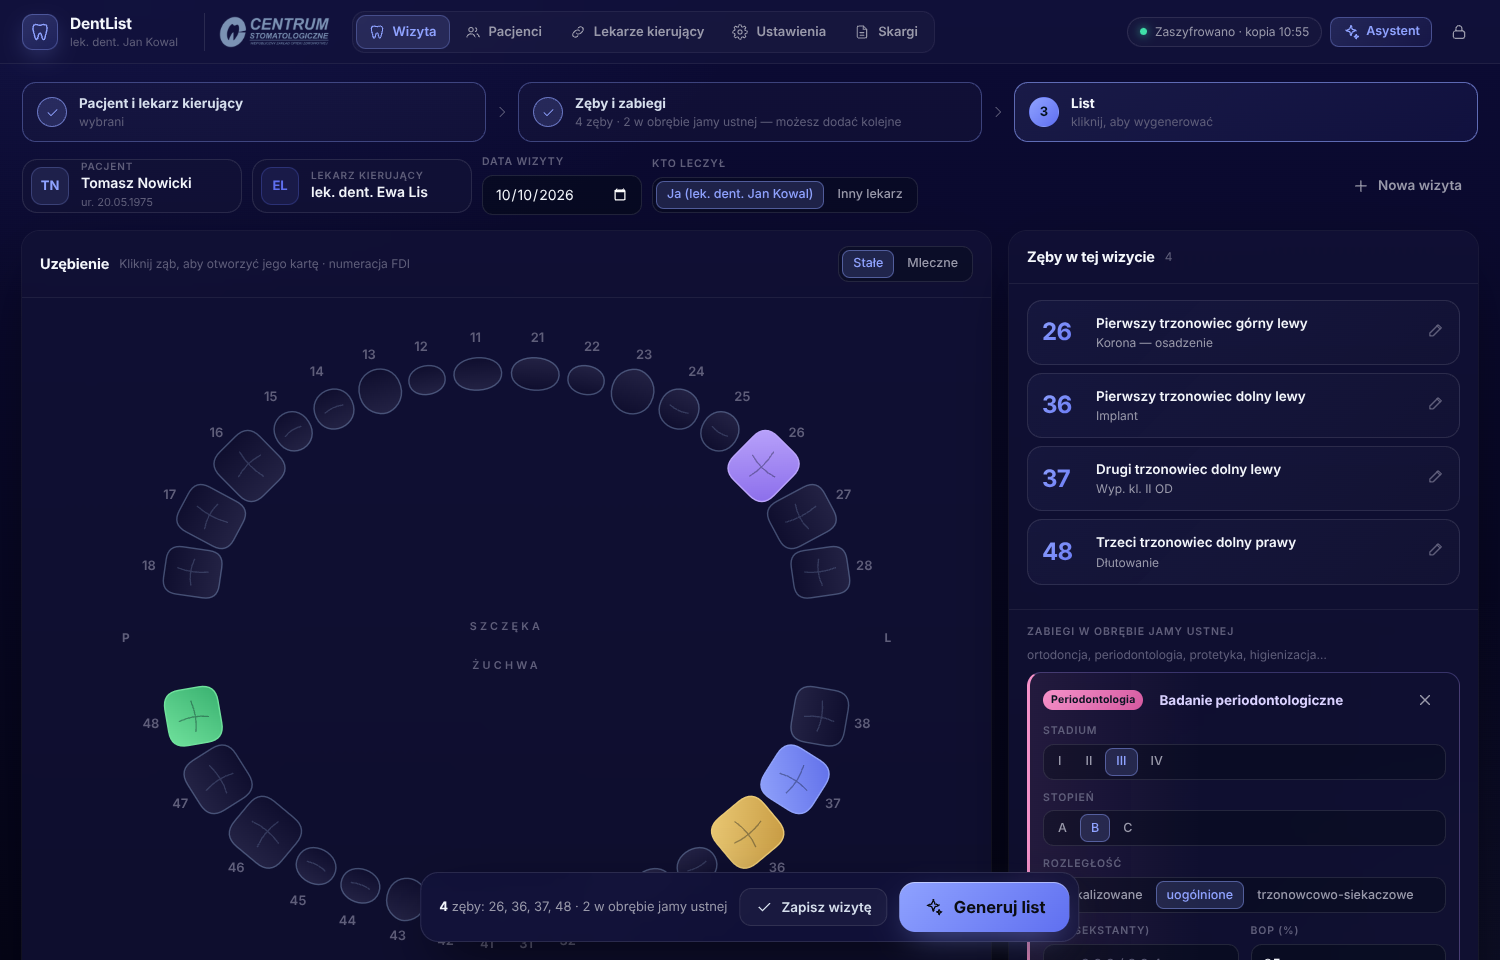
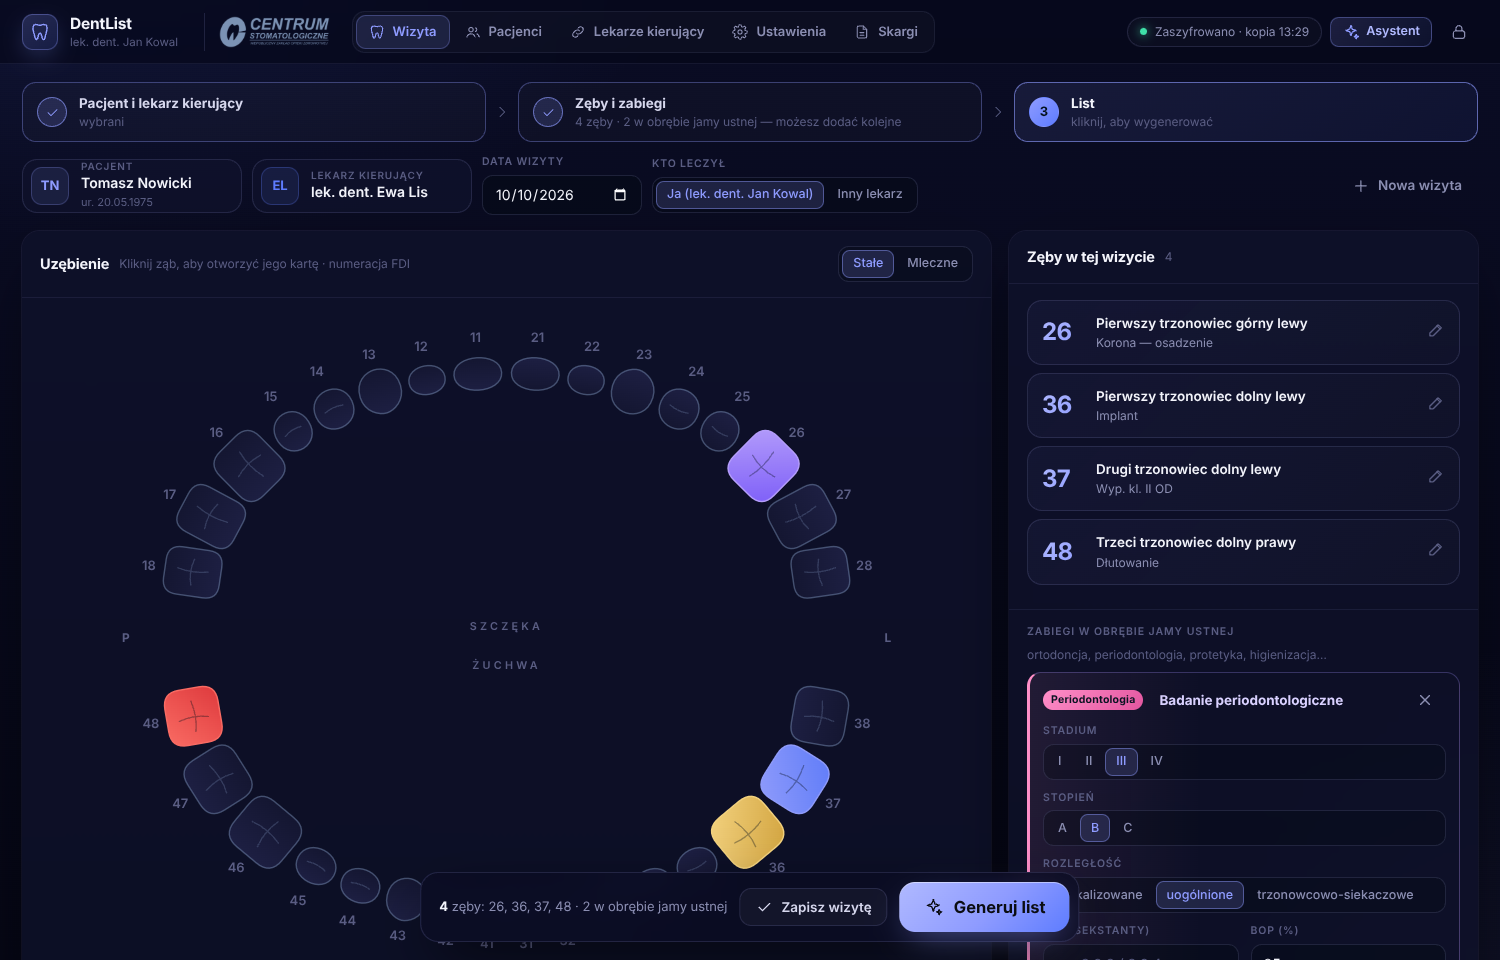
DentList 1.0.6: original endodontics look restored; every specialty built on the navy recipe
- endodontics identical to EndoList (background glow geometry, tooth card without extra glows)
- other specialties: the navy's exact saturation/lightness/alpha table in their own hue,
  Apple-style accents; surgery and maxillofacial surgery in reds
- tooth card keeps the doctor's colours instead of the tooth's work specialty

Claude-Session: https://claude.ai/code/session_01N2R7jD5mcfB683ZhhSfV7y

Changed region(s): [[0.0, 0.0, 1.0, 0.0625], [0.5827, 0.9062, 0.6747, 0.9688], [0.092, 0.7188, 0.1533, 0.7812]]

diff --git a/dentlist/public/css/app.css b/dentlist/public/css/app.css
@@ -25,8 +25,8 @@ svg.i { width: 18px; height: 18px; fill: none; stroke: currentColor; stroke-widt
 ::-webkit-scrollbar-thumb { background: rgba(148, 172, 214, 0.15); border-radius: 10px; border: 3px solid transparent; background-clip: padding-box; }
 :focus-visible { outline: 2px solid var(--accent); outline-offset: 2px; }
 .bg-glow { position: fixed; inset: 0; pointer-events: none; z-index: 0;
-  /* the whole screen takes the home specialty's subdued gradient (endodontics keeps the original EndoList levels) */
-  background: radial-gradient(1100px 680px at 8% -12%, rgba(var(--acc2-rgb), var(--glow1, 0.11)), transparent 62%), radial-gradient(1000px 760px at 105% 110%, rgba(var(--acc-rgb), var(--glow2, 0.08)), transparent 62%), linear-gradient(160deg, rgba(var(--acc2-rgb), var(--tint, 0)), transparent 55%), linear-gradient(180deg, var(--bg-2), var(--bg)); }
+  /* the original EndoList gradient; other specialties use the same recipe in their own hue (applyTheme) */
+  background: radial-gradient(1000px 600px at 8% -12%, rgba(var(--acc2-rgb), 0.11), transparent 60%), radial-gradient(900px 700px at 105% 110%, rgba(var(--acc-rgb), 0.08), transparent 60%), linear-gradient(180deg, var(--bg-2), var(--bg)); }
 
 /* ---------------------------------------------------------- buttons */
 .btn { display: inline-flex; align-items: center; justify-content: center; gap: 8px; height: 38px; padding: 0 15px; border-radius: 12px; border: 1px solid var(--line-2);
@@ -96,7 +96,7 @@ input[type=date] { color-scheme: dark; }
 /* ---------------------------------------------------------- shell */
 .app { position: relative; z-index: 1; }
 .topbar { position: sticky; top: 0; z-index: 20; height: var(--top); display: flex; align-items: center; gap: 18px; padding: 0 22px;
-  border-bottom: 1px solid var(--line); background: rgba(5, 10, 20, 0.66); backdrop-filter: blur(18px) saturate(1.3); -webkit-backdrop-filter: blur(18px) saturate(1.3); }
+  border-bottom: 1px solid var(--line); background: var(--topbar, rgba(5, 10, 20, 0.66)); backdrop-filter: blur(18px) saturate(1.3); -webkit-backdrop-filter: blur(18px) saturate(1.3); }
 .brand { display: flex; align-items: center; gap: 12px; min-width: 0; }
 .mark { width: 36px; height: 36px; border-radius: 11px; display: grid; place-items: center; color: var(--accent); flex: none;
   background: linear-gradient(145deg, rgba(var(--acc-rgb), 0.22), rgba(var(--acc2-rgb), 0.16)); box-shadow: inset 0 0 0 1px rgba(var(--acc-rgb), 0.35), 0 8px 26px -8px rgba(var(--acc-rgb), 0.5); }
@@ -222,7 +222,7 @@ table.wl input { height: 34px; }
 
 /* action bar */
 .actionbar { position: fixed; left: 50%; bottom: 18px; transform: translateX(-50%); z-index: 30; display: flex; align-items: center; gap: 12px; padding: 9px 9px 9px 18px; border-radius: 18px;
-  background: rgba(10, 17, 32, 0.82); backdrop-filter: blur(18px) saturate(1.4); -webkit-backdrop-filter: blur(18px) saturate(1.4); border: 1px solid var(--line-2); box-shadow: 0 24px 60px -18px rgba(0, 0, 0, 0.9); max-width: calc(100vw - 32px); }
+  background: var(--abar, rgba(10, 17, 32, 0.82)); backdrop-filter: blur(18px) saturate(1.4); -webkit-backdrop-filter: blur(18px) saturate(1.4); border: 1px solid var(--line-2); box-shadow: 0 24px 60px -18px rgba(0, 0, 0, 0.9); max-width: calc(100vw - 32px); }
 .actionbar .sum { font-size: 13px; color: var(--dim); white-space: nowrap; overflow: hidden; text-overflow: ellipsis; }
 .actionbar .sum b { color: var(--strong); }
 
@@ -324,11 +324,10 @@ select.mini { width: auto; height: 30px; font-size: 12px; }
 .vtooth small { display: block; color: var(--dim); font-size: 12px; margin-top: 1px; }
 .vt-edit { color: var(--faint); } .vtooth:hover .vt-edit { color: var(--accent); }
 
-.ws-overlay { position: fixed; inset: 0; z-index: 90; display: grid; place-items: center; padding: 18px; background: rgba(2, 6, 14, 0.9); animation: fade 0.2s ease; } /* no backdrop blur: it can hide the 3D canvas on some GPUs */
+.ws-overlay { position: fixed; inset: 0; z-index: 90; display: grid; place-items: center; padding: 18px; background: var(--overlay, rgba(2, 6, 14, 0.9)); animation: fade 0.2s ease; } /* no backdrop blur: it can hide the 3D canvas on some GPUs */
 .ws { width: min(1460px, 100%); height: min(920px, 100%); display: flex; flex-direction: column; border-radius: 26px; overflow: hidden;
-  /* tinted by the specialty being worked on (set from the tooth card) */
-  background: radial-gradient(1000px 620px at 100% 0%, rgba(var(--ws2-rgb, var(--acc2-rgb)), 0.30), transparent 62%), radial-gradient(800px 560px at 40% 110%, rgba(var(--ws-rgb, var(--acc-rgb)), 0.16), transparent 62%), linear-gradient(160deg, rgba(var(--ws-rgb, var(--acc-rgb)), 0.08), transparent 50%), linear-gradient(180deg, var(--ws-base1, rgba(16, 26, 46, 0.97)), var(--ws-base2, rgba(8, 14, 27, 0.98)));
-  border: 1px solid rgba(var(--ws-rgb, var(--acc-rgb)), 0.22); box-shadow: 0 50px 130px -30px rgba(0, 0, 0, 0.95), 0 0 0 1px rgba(var(--ws-rgb, var(--acc-rgb)), 0.08); transition: border-color 0.3s; animation: wsin 0.32s cubic-bezier(0.2, 0.9, 0.3, 1.1); }
+  background: linear-gradient(180deg, var(--ws-1, rgba(16, 26, 46, 0.97)), var(--ws-2, rgba(8, 14, 27, 0.98)));
+  border: 1px solid var(--line-2); box-shadow: 0 50px 130px -30px rgba(0, 0, 0, 0.95), 0 0 0 1px rgba(var(--acc-rgb), 0.06); animation: wsin 0.32s cubic-bezier(0.2, 0.9, 0.3, 1.1); }
 @keyframes wsin { from { transform: scale(0.94) translateY(14px); opacity: 0; } }
 .ws-head { display: flex; align-items: center; gap: 14px; padding: 16px 20px; border-bottom: 1px solid var(--line); }
 .ws-head .tp-num { font-size: 38px; }
@@ -673,12 +672,8 @@ label.cmp-check input { accent-color: var(--accent); width: 18px; height: 18px; 
 .vh-item[style*="--sp"] { background: linear-gradient(90deg, color-mix(in srgb, var(--sp) 11%, transparent), rgba(255, 255, 255, 0.015) 55%); border-color: color-mix(in srgb, var(--sp) 30%, var(--line-2)); }
 
 /* tooth card header carries the specialty colour too */
-.ws-head { background: linear-gradient(90deg, rgba(var(--ws-rgb, var(--acc-rgb)), 0.16), rgba(var(--ws2-rgb, var(--acc2-rgb)), 0.05) 60%, transparent); border-bottom-color: rgba(var(--ws-rgb, var(--acc-rgb)), 0.25); transition: background 0.3s; }
-.ws-head .tp-num { background: linear-gradient(135deg, rgb(var(--ws-rgb, var(--acc-rgb))), rgb(var(--ws2-rgb, var(--acc2-rgb)))); -webkit-background-clip: text; background-clip: text; color: transparent; }
 
 /* panels and the top bar carry a light wash of the home specialty (0 for endodontics = original look) */
-.panel { background-image: linear-gradient(160deg, rgba(var(--acc2-rgb), var(--panel-tint, 0)), rgba(var(--acc-rgb), calc(var(--panel-tint, 0) * 0.4)) 55%, transparent); }
-.topbar { background-image: linear-gradient(90deg, rgba(var(--acc2-rgb), calc(var(--panel-tint, 0) * 1.3)), transparent 70%); }
 
 /* asystent */
 .asst-btn { gap: 6px; }
@@ -700,12 +695,10 @@ section.asst-flash { box-shadow: 0 0 0 2px rgba(var(--acc-rgb), 0.7), 0 0 40px -
 
 /* whole screen in the colour of the specialty: page, panels and lines come from SPECS[].bg (set in applyTheme);
    endodontics keeps the original EndoList navy and aqua. */
-:root[data-spec]:not([data-spec="endo"]) .topbar { background-color: var(--panel); }
-:root[data-spec]:not([data-spec="endo"]) .actionbar { background: var(--panel); }
-:root[data-spec]:not([data-spec="endo"]) .btn-primary { color: #0b0d12; background: linear-gradient(135deg, var(--accent), var(--accent-2)); box-shadow: 0 12px 34px -12px rgba(var(--acc-rgb), 0.6), inset 0 1px 0 rgba(255, 255, 255, 0.45); }
-:root[data-spec]:not([data-spec="endo"]) .btn-primary:hover:not(:disabled) { background: linear-gradient(135deg, var(--accent), var(--accent)); box-shadow: 0 16px 44px -12px rgba(var(--acc-rgb), 0.8), inset 0 1px 0 rgba(255, 255, 255, 0.55); }
-:root[data-spec]:not([data-spec="endo"]) .btn-soft { color: var(--accent); }
-:root[data-spec]:not([data-spec="endo"]) .tp-num:not(.ws-head .tp-num), :root[data-spec]:not([data-spec="endo"]) .vt-num { background-image: linear-gradient(135deg, var(--accent), var(--accent-2)); }
+:root[data-spec]:not([data-spec="endo"]) .btn-primary { color: #0b0d12; background: linear-gradient(135deg, var(--accent-hi), var(--accent) 55%, var(--accent-2)); box-shadow: 0 12px 34px -12px rgba(var(--acc-rgb), 0.6), inset 0 1px 0 rgba(255, 255, 255, 0.45); }
+:root[data-spec]:not([data-spec="endo"]) .btn-primary:hover:not(:disabled) { background: linear-gradient(135deg, var(--accent-hi), var(--accent-hi) 30%, var(--accent)); box-shadow: 0 16px 44px -12px rgba(var(--acc-rgb), 0.8), inset 0 1px 0 rgba(255, 255, 255, 0.55); }
+:root[data-spec]:not([data-spec="endo"]) .btn-soft { color: var(--accent-hi); }
+:root[data-spec]:not([data-spec="endo"]) .tp-num, :root[data-spec]:not([data-spec="endo"]) .vt-num { background-image: linear-gradient(135deg, var(--accent-hi), var(--accent)); }
 
 /* tooth card: side rail with every specialty */
 .sp-rail { display: flex; flex-direction: column; gap: 4px; padding: 12px 8px; overflow-y: auto; border-right: 1px solid var(--line); background: rgba(0, 0, 0, 0.12); scrollbar-width: none; }

diff --git a/dentlist/public/js/app.js b/dentlist/public/js/app.js
@@ -74,7 +74,7 @@ const DEFAULT_SETTINGS = {
   security: { autolock: 15 },
   used: {},
 };
-export const APP_VERSION = '1.0.5';
+export const APP_VERSION = '1.0.6';
 const WRITER = 2; // letter writer generation (first-person narrative)
 const S = { session: null, folder: null, data: null, view: 'visit', visitId: null, fdi: null, ttab: 'anat', letterId: null, patientId: null, search: '', saving: 0, backingUp: false, installEvt: null, lastActive: Date.now(), previewUrl: null, sync: null, syncStatus: null };
 const D = () => S.data;
@@ -84,22 +84,24 @@ const home = () => (S.data && settings()?.doctor?.home) || 'zach';
 const mixHex = (a, b, k) => '#' + [1, 3, 5].map((i) => Math.round(parseInt(a.slice(i, i + 2), 16) * (1 - k) + parseInt(b.slice(i, i + 2), 16) * k).toString(16).padStart(2, '0')).join('');
 const hexRgb = (h) => [1, 3, 5].map((i) => parseInt(h.slice(i, i + 2), 16)).join(', ');
 const rgba = (h, al) => `rgba(${hexRgb(h)}, ${al})`;
-const THEME_VARS = ['--bg', '--bg-2', '--panel-solid', '--panel', '--panel-2', '--line', '--line-2', '--line-3', '--dim', '--faint', '--tooth-1', '--tooth-2'];
+/** The original EndoList navy, measured as [saturation %, lightness %, alpha]: every other specialty uses exactly
+ *  this recipe in its own hue, so all backgrounds have the same depth and calm (no grey, no colour mixing). */
+const NAVY = {
+  '--bg': [60, 4.9], '--bg-2': [56.5, 9], '--panel': [48.3, 11.4, 0.74], '--panel-solid': [49.1, 10.8], '--panel-2': [45, 15.7, 0.6],
+  '--line': [44.6, 71, 0.1], '--line-2': [44.6, 71, 0.17], '--line-3': [44.6, 71, 0.28], '--text': [39, 88.4], '--strong': [50, 96.9], '--dim': [20.2, 62.2], '--faint': [18.6, 43.3],
+  '--tooth-1': [38.9, 18.6], '--tooth-2': [42, 13.5], '--topbar': [60, 4.9, 0.66], '--abar': [52.4, 8.2, 0.82], '--ws-1': [48.4, 12.2, 0.97], '--ws-2': [54.3, 6.9, 0.98], '--overlay': [75, 3.1, 0.9],
+};
+const NAVY_3D = [[54.7, 25.1], [62, 15.5], [62.2, 7.3]];
+const hslHex = (h, s, l) => { s /= 100; l /= 100; const f = (n) => { const k = (n + h / 30) % 12, c = l - s * Math.min(l, 1 - l) * Math.max(-1, Math.min(k - 3, 9 - k, 1)); return Math.round(c * 255).toString(16).padStart(2, '0'); }; return '#' + f(0) + f(8) + f(4); };
+const themeBg3D = (k) => (k !== 'endo' && SPECS[k]?.hue !== undefined ? NAVY_3D.map(([s, l]) => hslHex(SPECS[k].hue, s, l)) : null);
 function applyTheme() {
   const k = home(), sp = SPECS[k] || SPECS.zach, r = document.documentElement.style;
-  // endodontics keeps the original EndoList navy and aqua; every other specialty has its own defined colour and dark background
+  // endodontics: the original EndoList navy and aqua, untouched; other specialties: the same recipe in their own hue
   const [a, b] = k === 'endo' ? ['#5ee6d6', '#62a9ff'] : [sp.color, sp.color2];
-  r.setProperty('--accent', a); r.setProperty('--accent-2', b); r.setProperty('--acc-rgb', hexRgb(a)); r.setProperty('--acc2-rgb', hexRgb(b));
-  r.setProperty('--glow1', '0.11'); r.setProperty('--glow2', '0.08'); r.setProperty('--tint', '0'); r.setProperty('--panel-tint', '0');
-  const own = k !== 'endo' && sp.bg;
-  if (own) {
-    // built like the original navy: a deep, saturated hue (no grey), lines and secondary text tinted with the same hue
-    const [bg, bg2, pn] = sp.bg, ln = mixHex(bg2, '#ffffff', 0.62);
-    const v = { '--bg': bg, '--bg-2': bg2, '--panel-solid': pn, '--panel': rgba(pn, 0.74), '--panel-2': rgba(mixHex(pn, '#ffffff', 0.05), 0.6), '--line': rgba(ln, 0.1), '--line-2': rgba(ln, 0.17), '--line-3': rgba(ln, 0.28),
-      '--dim': mixHex(bg2, '#ffffff', 0.58), '--faint': mixHex(bg2, '#ffffff', 0.34), '--tooth-1': mixHex(pn, '#ffffff', 0.07), '--tooth-2': mixHex(pn, bg, 0.25) };
-    for (const [n, x] of Object.entries(v)) r.setProperty(n, x);
-  } else for (const n of THEME_VARS) r.removeProperty(n);
-  const tc = document.querySelector('meta[name=theme-color]'); if (tc) tc.content = own ? sp.bg[0] : '#050a14';
+  r.setProperty('--accent', a); r.setProperty('--accent-2', b); r.setProperty('--acc-rgb', hexRgb(a)); r.setProperty('--acc2-rgb', hexRgb(b)); r.setProperty('--accent-hi', mixHex(a, '#ffffff', 0.3));
+  const own = k !== 'endo' && sp.hue !== undefined;
+  for (const [n, [sat, li, al]] of Object.entries(NAVY)) { if (own) { const x = hslHex(sp.hue, sat, li); r.setProperty(n, al === undefined ? x : rgba(x, al)); } else r.removeProperty(n); }
+  const tc = document.querySelector('meta[name=theme-color]'); if (tc) tc.content = own ? hslHex(sp.hue, 60, 4.9) : '#050a14';
   document.documentElement.dataset.spec = k;
 }
 const specStyle = (k) => `--sp:${SPECS[k]?.color || '#888'};--sp2:${SPECS[k]?.color2 || '#666'}`;
@@ -683,13 +685,10 @@ function stepsHTML(t) {
 }
 /** The tooth card takes the colour of the specialty being worked on: the chosen procedure group, the endodontic step, or the tooth's last procedure. */
 function tintWorkspace(t) {
+  // the tooth card keeps the home specialty's colours (as in the original); only the 3D background follows them too
   const el = $('#ws'); if (!el) return;
-  const sp = S.ttab === 'endo' || (S.ttab === 'anat' && home() === 'endo') ? 'endo' : S.ttab === 'work' ? (S.workSpec || (home() === 'endo' ? 'zach' : home())) : (t.work || []).length ? specOf(t.work.at(-1)) : ENDO[t.endo?.proc] ? 'endo' : home();
-  const c = SPECS[sp] || SPECS.zach;
-  el.style.setProperty('--ws-rgb', hexRgb(c.color)); el.style.setProperty('--ws2-rgb', hexRgb(c.color2)); el.dataset.spec = sp;
-  if (sp !== 'endo' && c.bg) { el.style.setProperty('--ws-base1', rgba(c.bg[2], 0.97)); el.style.setProperty('--ws-base2', rgba(c.bg[0], 0.98)); } else { el.style.removeProperty('--ws-base1'); el.style.removeProperty('--ws-base2'); }
-  // the 3D view keeps the original navy for endodontics, other specialties tint it
-  try { S.t3d?.setTint?.(sp === 'endo' || !c.bg ? null : c.bg); } catch {}
+  el.dataset.spec = home();
+  try { S.t3d?.setTint?.(themeBg3D(home())); } catch {}
 }
 /** Keep the current step visible in the strip (it scrolls sideways on a phone). */
 function centerStep() { const st = $('#ws-tabs'), on = $('#ws-tabs .step.on'); if (!st || !on || st.scrollWidth <= st.clientWidth) return; const a = st.getBoundingClientRect(), b = on.getBoundingClientRect(); st.scrollLeft += b.left - a.left - (a.width - b.width) / 2; }

diff --git a/dentlist/public/js/specs.js b/dentlist/public/js/specs.js
@@ -3,19 +3,20 @@
 // Zdania do listu (1. osoba) i do dokumentacji (forma bezosobowa) powstają z tych samych pól.
 
 /* ------------------------------------------------------------------ specjalności */
-// Kolory: każda specjalność ma własny, wyraźny kolor (color → color2) i własne ciemne tło (bg: [tło, góra gradientu, panele]),
-// tak jak endodoncja ma granat z akwamaryną z oryginalnej aplikacji EndoList.
+// Kolory: endodoncja = oryginalny granat EndoList. Pozostałe specjalności: ten sam przepis tła co granat (ta sama
+// jasność, nasycenie, przezroczystość i poświata), tylko w innym odcieniu (hue); akcenty w stylu kolorów systemowych Apple.
+// Chirurgia i chirurgia szczękowo-twarzowa: odcienie czerwieni.
 export const SPECS = {
-  zach: { label: 'Stomatologia zachowawcza', short: 'Zachowawcza', color: '#8fa2ff', color2: '#5f6ff0', bg: ['#040416', '#0c0b35', '#121136'], icon: 'tooth' },
+  zach: { label: 'Stomatologia zachowawcza', short: 'Zachowawcza', color: '#8e9bff', color2: '#5e7cff', hue: 236, icon: 'tooth' },
   endo: { label: 'Endodoncja', short: 'Endodoncja', color: '#5fd8c8', color2: '#3b8fd9', icon: 'tooth' },
-  chir: { label: 'Chirurgia stomatologiczna', short: 'Chirurgia', color: '#6be39a', color2: '#34b36e', bg: ['#04160b', '#0b351c', '#113621'], icon: 'tooth' },
-  impl: { label: 'Implantologia', short: 'Implantologia', color: '#ecc970', color2: '#c99a3c', bg: ['#041016', '#0b2835', '#112b36'], icon: 'tooth' },
-  perio: { label: 'Periodontologia', short: 'Periodontologia', color: '#f592c9', color2: '#d4589f', bg: ['#16040f', '#350b25', '#361129'], icon: 'tooth' },
-  prot: { label: 'Protetyka stomatologiczna', short: 'Protetyka', color: '#bba3ff', color2: '#8a6af0', bg: ['#0b0416', '#1c0b35', '#211136'], icon: 'tooth' },
-  orto: { label: 'Ortodoncja', short: 'Ortodoncja', color: '#c2e36a', color2: '#8fbf3a', bg: ['#0a1604', '#19350b', '#1e3611'], icon: 'tooth' },
-  ped: { label: 'Stomatologia dziecięca', short: 'Dziecięca', color: '#ffab70', color2: '#ff7f6b', bg: ['#130416', '#2e0b35', '#301136'], icon: 'tooth' },
-  mfs: { label: 'Chirurgia szczękowo-twarzowa', short: 'Szczękowo-twarzowa', color: '#ff6f78', color2: '#d93848', bg: ['#160406', '#350b10', '#361116'], icon: 'tooth' },
-  hig: { label: 'Higienizacja i profilaktyka', short: 'Higienizacja', color: '#cdf3ee', color2: '#7fd4cb', bg: ['#041615', '#0b3534', '#113635'], icon: 'tooth' },
+  chir: { label: 'Chirurgia stomatologiczna', short: 'Chirurgia', color: '#ff6961', color2: '#e5383b', hue: 356, icon: 'tooth' },
+  impl: { label: 'Implantologia', short: 'Implantologia', color: '#f5d27a', color2: '#d4a43a', hue: 168, icon: 'tooth' },
+  perio: { label: 'Periodontologia', short: 'Periodontologia', color: '#ff8fc8', color2: '#e2559f', hue: 318, icon: 'tooth' },
+  prot: { label: 'Protetyka stomatologiczna', short: 'Protetyka', color: '#b59cff', color2: '#7d5cff', hue: 262, icon: 'tooth' },
+  orto: { label: 'Ortodoncja', short: 'Ortodoncja', color: '#b4e36a', color2: '#5ec247', hue: 98, icon: 'tooth' },
+  ped: { label: 'Stomatologia dziecięca', short: 'Dziecięca', color: '#ffb35c', color2: '#ff8a5c', hue: 288, icon: 'tooth' },
+  mfs: { label: 'Chirurgia szczękowo-twarzowa', short: 'Szczękowo-twarzowa', color: '#ff7d95', color2: '#d23a62', hue: 338, icon: 'tooth' },
+  hig: { label: 'Higienizacja i profilaktyka', short: 'Higienizacja', color: '#7ee8c6', color2: '#33c98a', hue: 142, icon: 'tooth' },
 };
 export const SPEC_ORDER = ['zach', 'endo', 'chir', 'impl', 'perio', 'prot', 'orto', 'ped', 'mfs', 'hig'];
 /** Specialist title for the letter header, by home specialty. */

diff --git a/dentlist/public/js/tooth3d.js b/dentlist/public/js/tooth3d.js
@@ -112,8 +112,8 @@ export class Tooth3D {
     const mix = (h1, h2, k) => { const p = (h) => [1, 3, 5].map((i) => parseInt(h.slice(i, i + 2), 16)); const a = p(h1), b = p(h2); return `rgb(${a.map((v, i) => Math.round(v + (b[i] - v) * k)).join(',')})`; };
     const x = this.bgCanvas.getContext('2d'), g = x.createRadialGradient(256, 230, 20, 256, 256, 360);
     // endodontics: the original navy; other specialties: a dark shade of their own colour
-    // tint = the specialty's own background [dark, gradient top, panel]
-    g.addColorStop(0, tint ? mix(tint[1], '#ffffff', 0.1) : '#1d3a63'); g.addColorStop(0.55, tint ? tint[2] : '#0f2140'); g.addColorStop(1, tint ? tint[0] : '#070f1e');
+    // tint = the specialty's version of the original navy [centre, middle, edge]
+    g.addColorStop(0, tint ? tint[0] : '#1d3a63'); g.addColorStop(0.55, tint ? tint[1] : '#0f2140'); g.addColorStop(1, tint ? tint[2] : '#070f1e');
     x.fillStyle = g; x.fillRect(0, 0, 512, 512); this.bgTex.needsUpdate = true;
   }
   setTint(bg) { const key = bg ? bg.join() : ''; if (key === this.tintKey) return; this.tintKey = key; this.paintBg(bg); }

diff --git a/dentlist/public/sw.js b/dentlist/public/sw.js
@@ -1,5 +1,5 @@
 // DentList — service worker: aplikacja działa offline (AI wymaga internetu).
-const VERSION = 'dentlist-v6';
+const VERSION = 'dentlist-v7';
 const ASSETS = [
   './', 'index.html', 'manifest.webmanifest', 'config.json', 'css/app.css',
   'js/app.js', 'js/ai.js', 'js/data.js', 'js/dx.js', 'js/files.js', 'js/letter.js', 'js/odontogram.js', 'js/pdf.js', 'js/vault.js', 'js/tooth3d.js', 'js/speech.js', 'js/letterview.js', 'js/sync.js', 'js/privacy.js', 'js/org.js', 'js/specs.js', 'js/complaints.js', 'js/assistant.js',

diff --git a/dentlist/README.md b/dentlist/README.md
@@ -11,7 +11,7 @@ There are 10 specialties, each with its own subdued colour gradient. The colours
 **Specialties:** Stomatologia zachowawcza · Endodoncja · Chirurgia stomatologiczna · Implantologia · Periodontologia · Protetyka · Ortodoncja · Stomatologia dziecięca · Chirurgia szczękowo-twarzowa · Higienizacja i profilaktyka.
 
 - **Home specialty:** each doctor chooses one in the first-start screen or in Settings. It sets the order of the tooth-card steps, the default procedures and materials, and the colour of the whole screen. Endodontics keeps the original EndoList navy and aqua. Every other specialty has its own defined colour scheme:
-  a deep, saturated background built like the original navy (no grey): indigo (zachowawcza), emerald (chirurgia), petrol blue with gold (implantologia), magenta (periodontologia), violet (protetyka), forest green (ortodoncja), orchid with orange (dziecięca), crimson (szczękowo-twarzowa), teal (higienizacja). The tooth card takes the colour of the specialty you are working in.
+  the same recipe as the original navy (identical depth, saturation, transparency and glow), only in its own hue, with Apple-style accent colours: indigo (zachowawcza), crimson red (chirurgia), wine red (szczękowo-twarzowa), midnight green with gold (implantologia), magenta (periodontologia), violet (protetyka), forest green (ortodoncja), orchid with orange (dziecięca), emerald (higienizacja). The tooth card uses the doctor's own colours, as in the original.
 - **Tooth card follows the specialty:** for an endodontist it starts with Anatomia and Endodoncja. For every other specialty the steps are Badanie, Zabiegi, Materiały, Opis własny and Zalecenia. Root canals are not shown, but Zabiegi › Endodoncja adds the root-canal steps whenever needed. The 3D model shows what was done: an implant (with a healing cap, or with a crown when a crown or implant restoration is recorded), an extracted tooth as a faint outline, or a plain tooth. Canals appear only with endodontic work. It also draws the work of the other specialties: fillings on the recorded surfaces, crowns (ceramic, temporary, stainless steel for children), veneers, inlays/onlays, posts, sealants, SDF, pulpotomy, apicoectomy with retrograde filling, and the gingiva for periodontal procedures (lower after a recession).
 - **Side rail of specialties** in the tooth card: every doctor (an endodontist too) can tap any specialty to record its work on this tooth. Specialties already used on the tooth are marked with a count.
 - **Materials and equipment by specialty:** the Materiały step opens on the specialty of the work on this tooth, with that specialty's categories (e.g. implant systems and motors for implantology, curettes and Emdogain for periodontology, brackets and wires for orthodontics). The microscope card is shown for endodontics. Every specialty is **always available**: an endodontist can record a filling, and a general dentist can record a root canal or an extraction.
